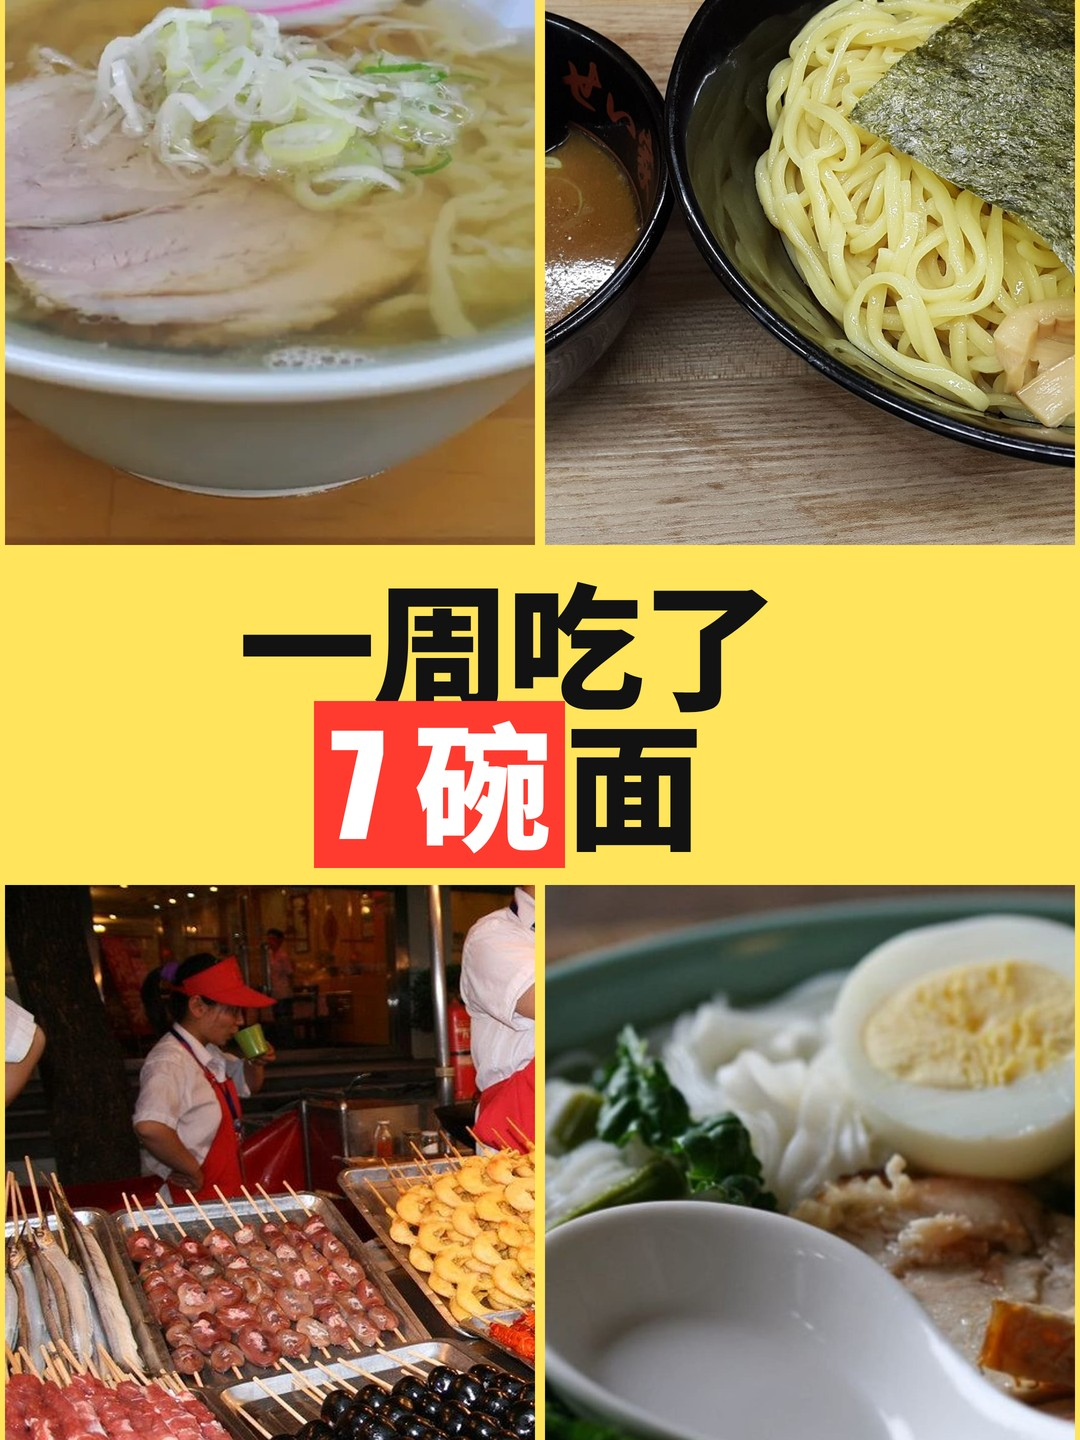
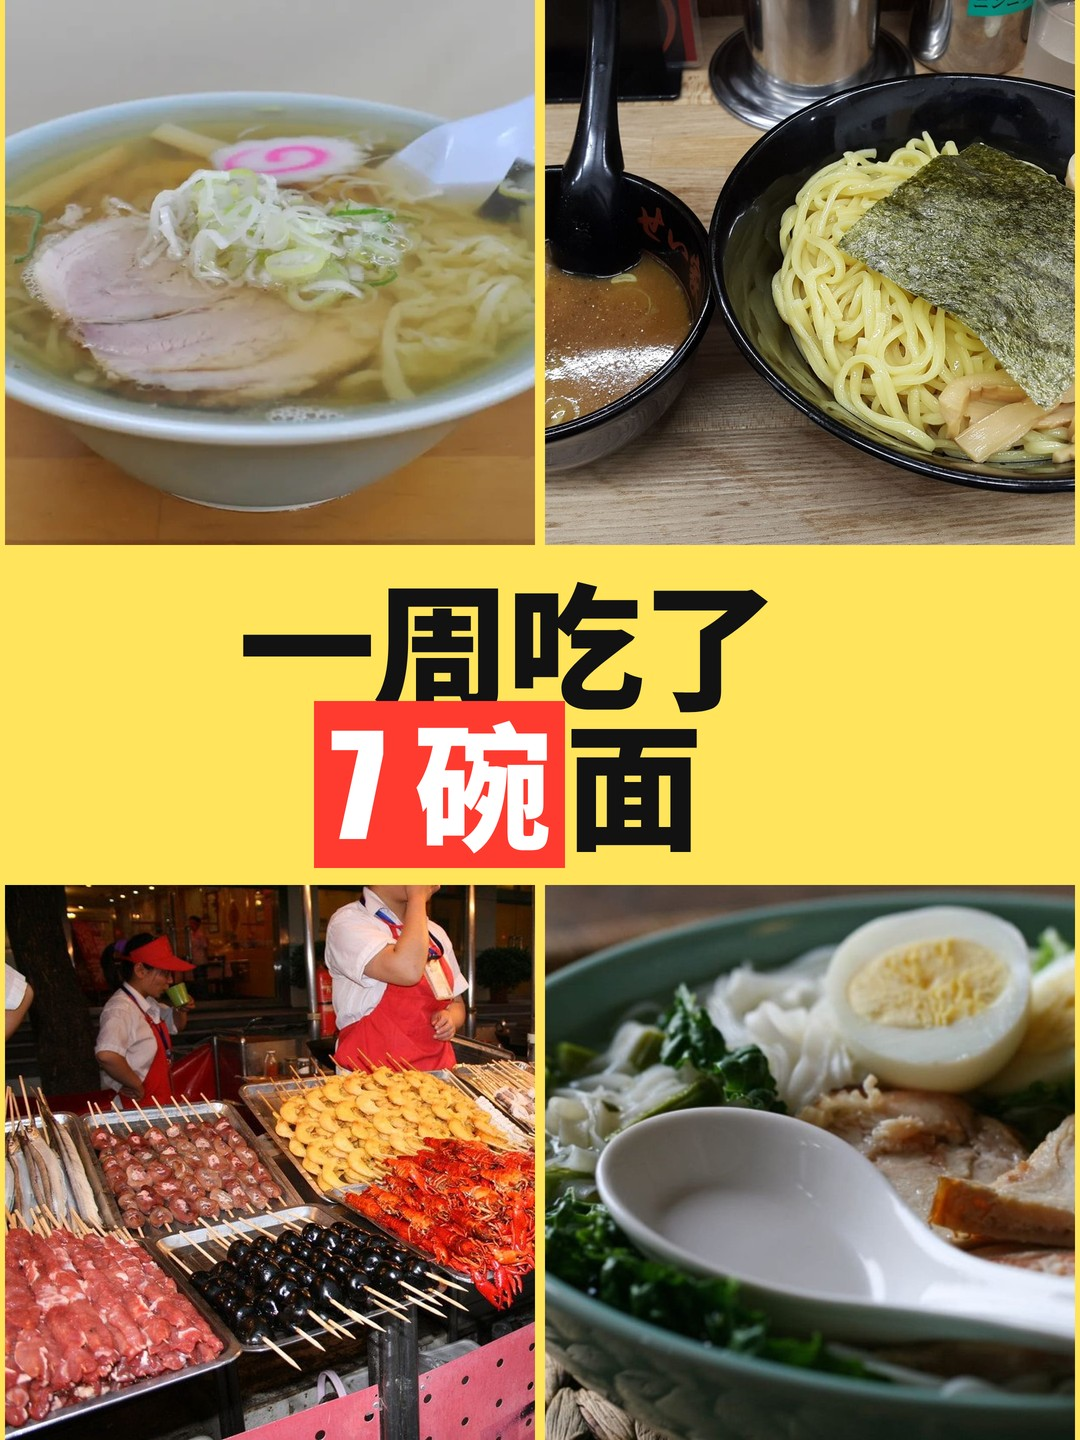
docs(examples): regenerate under the subject check
The before-after now shows both desks in full, the versus bowls sit inside
their panels, and the scene-title example moved from Bilibili to YouTube:
Bilibili's bottom bar covers the sailboat, which the new check reports.

diff --git a/examples/README.md b/examples/README.md
@@ -70,10 +70,10 @@ beastcover gen "桌面*改造*" --template before-after --photo openverse:db683a
 A full-bleed scene with an outlined title. The title started at the bottom, where it covered the boat, so the CLI moved it to the calm water at the top.
 
 ```bash
-beastcover gen "*出海*第一天" --template scene-title --photo openverse:d788f4c8-9d3d-40cf-8784-02d2573ce9a0 --preset bilibili,x
+beastcover gen "*出海*第一天" --template scene-title --photo openverse:d788f4c8-9d3d-40cf-8784-02d2573ce9a0 --preset youtube,x
 ```
 
-<img src="scene-title-bilibili.jpg" width="480"> <img src="scene-title-x.jpg" width="600">
+<img src="scene-title-youtube.jpg" width="480"> <img src="scene-title-x.jpg" width="600">
 
 ## Callout
 

diff --git a/README.md b/README.md
@@ -45,7 +45,7 @@ Every platform has several cover types that keep winning, not one. BeastCover ma
 </p>
 <p align="center">
   <img src="examples/callout-youtube.jpg" alt="Callout: a small airplane circled in red with an arrow, 这是什么？" width="32%">
-  <img src="examples/scene-title-bilibili.jpg" alt="Scene title: a sailboat on open water, 出海第一天 in outlined yellow and white" width="32%">
+  <img src="examples/scene-title-youtube.jpg" alt="Scene title: a sailboat on open water, 出海第一天 in outlined yellow and white" width="32%">
   <img src="examples/face-stakes-youtube.jpg" alt="Face with stakes: a face beside a blurred lava field, a DAY 1 sign" width="32%">
 </p>
 <p align="center">
